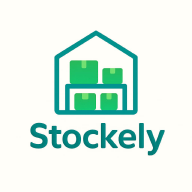
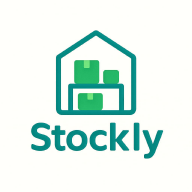
Aggiornamento Icone e Base Href HTML

Changed region(s): [[0.1562, 0.2188, 0.875, 0.8438], [0.4375, 0.1562, 0.5625, 0.2188]]

diff --git a/flutter_service_worker.js b/flutter_service_worker.js
@@ -26,15 +26,15 @@ const RESOURCES = {"assets/AssetManifest.bin": "a03c281c25c4f38624af0ccff4005b1b
 "canvaskit/skwasm.wasm": "39dd80367a4e71582d234948adc521c0",
 "favicon.png": "ca334ac5d70443a429be0a108fdb95a2",
 "flutter.js": "83d881c1dbb6d6bcd6b42e274605b69c",
-"flutter_bootstrap.js": "3e79dbdbc7fac126fae7fff2ef16b355",
+"flutter_bootstrap.js": "69b9146bfdb94a2a60439d0b17f7c854",
 "icons/Icon-192.png": "d85f03dc67833e380ba2f32b08cab3d8",
 "icons/Icon-512.png": "695bbbf233df97c95ecb3f6c169881ea",
 "icons/Icon-maskable-192.png": "d85f03dc67833e380ba2f32b08cab3d8",
 "icons/Icon-maskable-512.png": "695bbbf233df97c95ecb3f6c169881ea",
-"index.html": "37a09479689f46912a3fccbaac8b3c4e",
-"/": "37a09479689f46912a3fccbaac8b3c4e",
+"index.html": "607f56b85f5629253bdcdea7084338ec",
+"/": "607f56b85f5629253bdcdea7084338ec",
 "main.dart.js": "3c102307c9453aaf4353e36c43d53c77",
-"manifest.json": "69bb429b97ac628625627bd7471d98ca",
+"manifest.json": "958cb0382f7154a80910324d9bb5f21b",
 "version.json": "befe85758746a815808a8a30ce0ac112"};
 // The application shell files that are downloaded before a service worker can
 // start.

diff --git a/index.html b/index.html
@@ -14,7 +14,7 @@
     This is a placeholder for base href that will be replaced by the value of
     the `--base-href` argument provided to `flutter build`.
   -->
-  <base href="Stockly">
+  <base href="/stockly/">
   <link href="https://fonts.googleapis.com/icon?family=Material+Icons" rel="stylesheet">
   <meta charset="UTF-8">
   <meta content="IE=Edge" http-equiv="X-UA-Compatible">

diff --git a/flutter_bootstrap.js b/flutter_bootstrap.js
@@ -39,6 +39,6 @@ _flutter.buildConfig = {"engineRevision":"8cd19e509d6bece8ccd74aef027c4ca9473630
 
 _flutter.loader.load({
   serviceWorkerSettings: {
-    serviceWorkerVersion: "3136509715"
+    serviceWorkerVersion: "1952409447"
   }
 });
